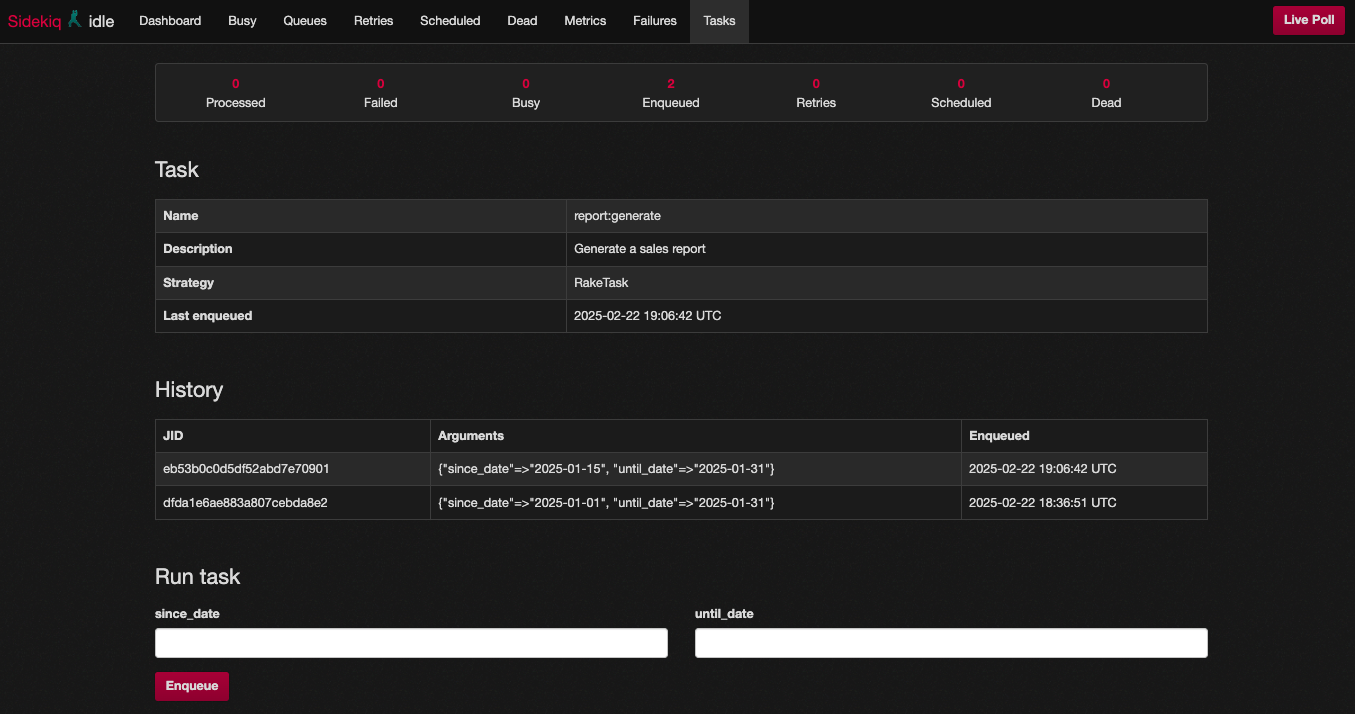
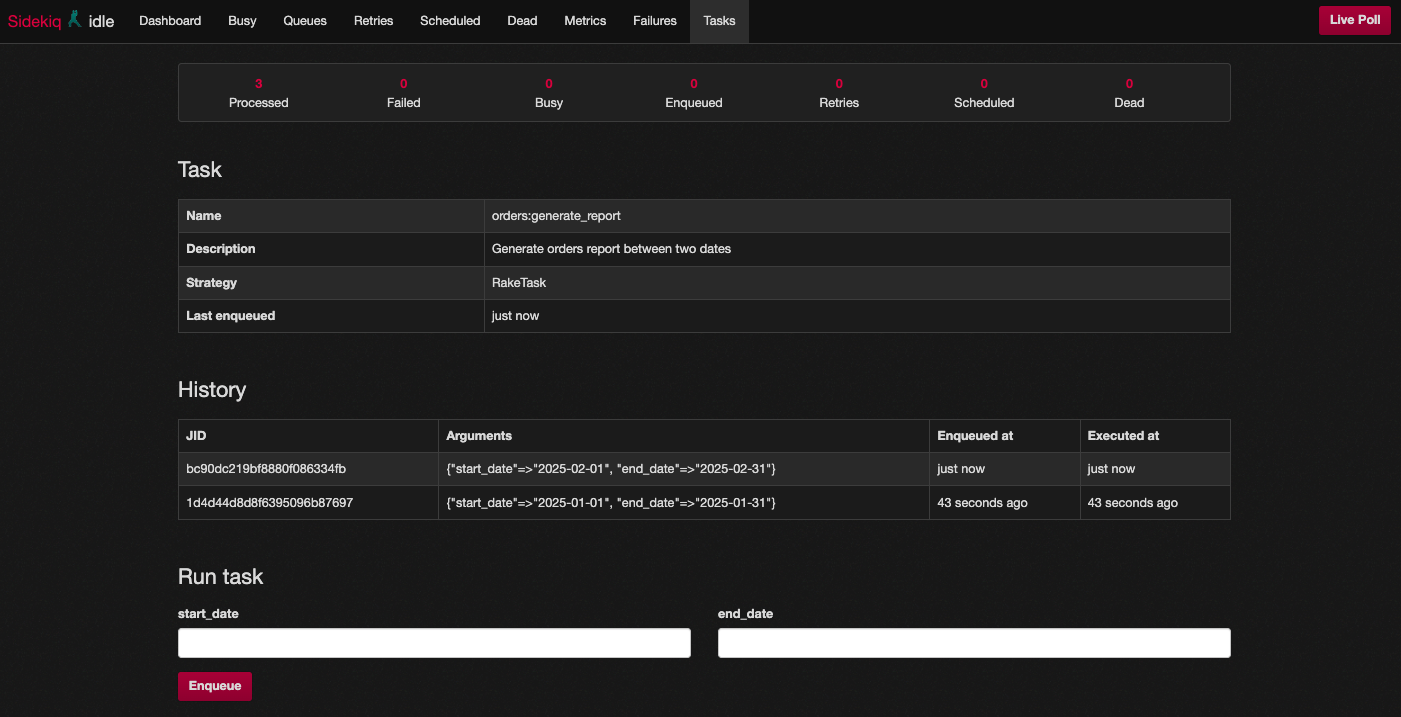
docs: add ci status badge and fix typo in code of conduct link, refresh task picture.

diff --git a/README.md b/README.md
@@ -1,5 +1,7 @@
 # Sidekiq::Tasks
 
+[![CI Status](https://github.com/victorauthiat/sidekiq-tasks/actions/workflows/ci.yml/badge.svg)](https://github.com/victorauthiat/sidekiq-tasks/actions/workflows/ci.yml)
+
 > A [Sidekiq](https://github.com/sidekiq/sidekiq) extension for task management.
 
 Sidekiq-Tasks extends Sidekiq by providing an interface to enqueue tasks directly from the web interface. By default it works with Rake tasks but it can be easily extended to support other task execution systems.
@@ -171,4 +173,4 @@ The gem is available as open source under the terms of the [MIT License](https:/
 
 ## Code of Conduct
 
-Everyone interacting in the Sidekiq::Tasks project's codebases, issue trackers, chat rooms and mailing lists is expected to follow the [code of conduct](htt  ps://github.com/victorauthiat/sidekiq-tasks/blob/master/CODE_OF_CONDUCT.md).
+Everyone interacting in the Sidekiq::Tasks project's codebases, issue trackers, chat rooms and mailing lists is expected to follow the [code of conduct](https://github.com/victorauthiat/sidekiq-tasks/blob/master/CODE_OF_CONDUCT.md).
